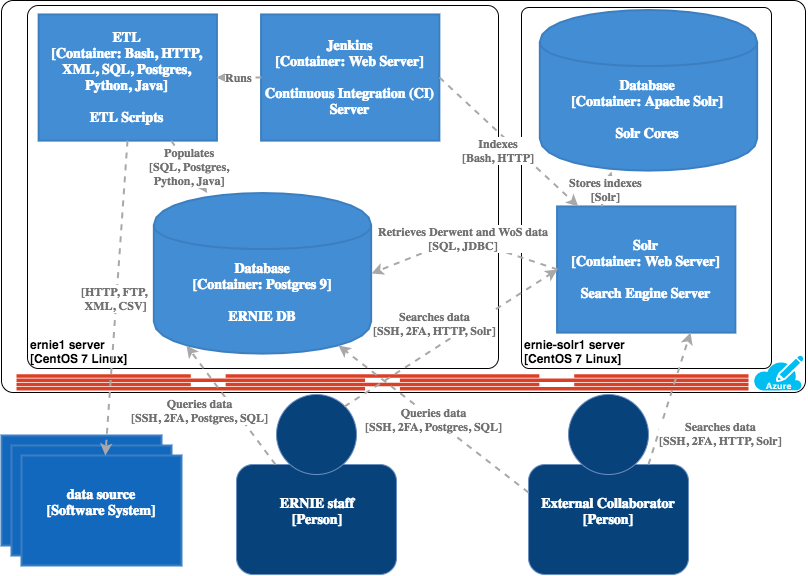
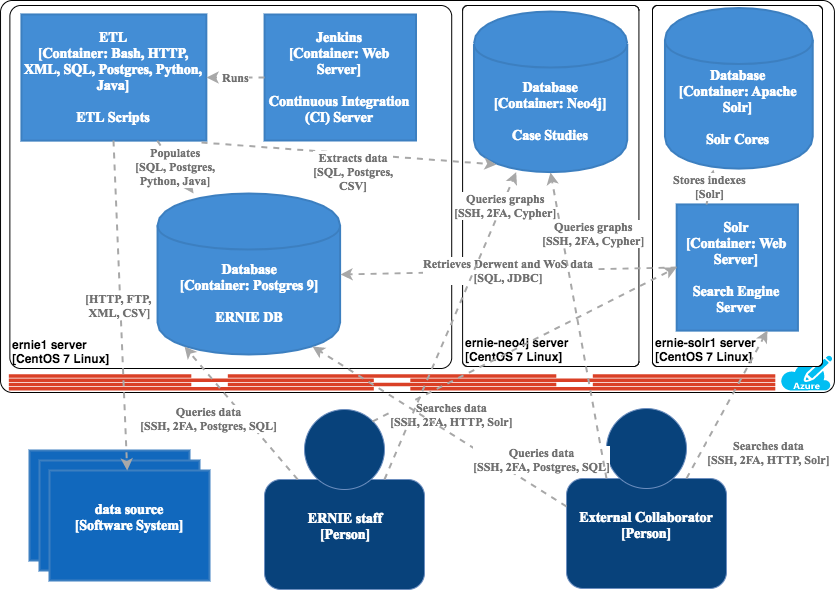
Update Deployment Diagram to include Neo4j

diff --git a/Architectural Model/README.md b/Architectural Model/README.md
@@ -29,15 +29,14 @@ a free [draw.io](http://draw.io) online tool with
 the [C4 Modelling plugin for draw.io](https://github.com/tobiashochguertel/c4-draw.io).
 
 To update the diagram:
-1. Open [draw.io](http://draw.io) online. [Plugins are not supported](https://github.com/jgraph/drawio-desktop/issues/7) 
-in draw.io Desktop.
-1. (one-time setup) Select GitHub as a storage option.   
-1. (one-time setup) Install 
-[C4 Modelling plugin for draw.io](https://github.com/tobiashochguertel/c4-draw.io).
+1. Open [draw.io Desktop](http://draw.io) (recommended) or draw.io online.
+1. (online only) You can select GitHub as a storage option. You'd be prompted to commit changes on save.   
+1. (one-time setup) Install  
+[C4 Modelling plugin for draw.io](https://tobiashochguertel.github.io/c4-draw.io/c4.js). Restart or reload the page.
 1. Open ERNIE C4 Deployment Diagram.xml
 1. Edit. Be aware that default draw.io C4 plug-in styling 
 [doesn't match](https://github.com/tobiashochguertel/c4-draw.io/issues/3) the default C4 styling. It's recommended to 
 duplicate shapes or copy existing diagram styles, which were matched to the default C4 styling as close as possible.
-1. Save. The diagram will be committed directly to GitHub.    
-1. After you're done with editing, export a diagram as PNG and SVG.
+1. Save.    
+1. After you're done with editing, export a diagram as a PNG and an SVG.
 1. Commit updated files.
